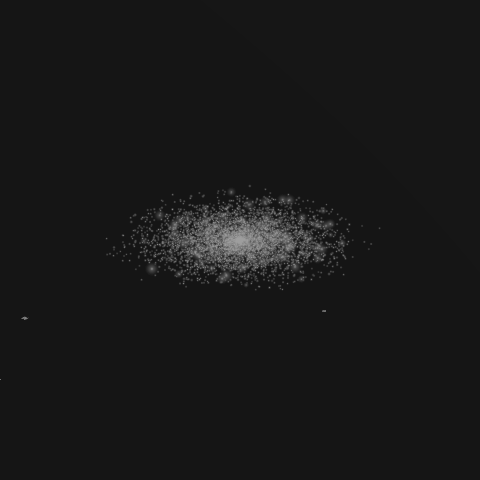
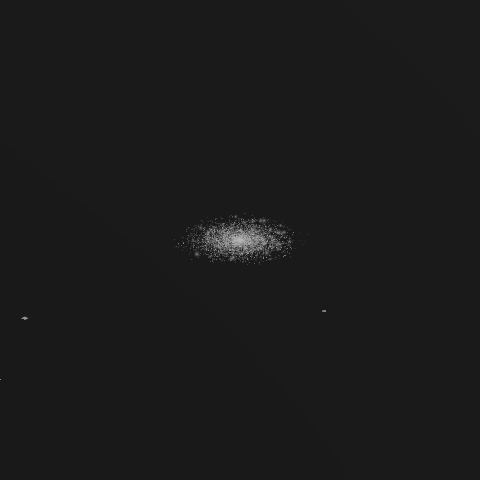
Textures publiées : échelle de la Voie lactée corrigée entre familles de sprites
Occupation du cadre désormais monotone : E 2 %, D 5 %, C 13 %, B 17 %, A 42 %.
Galaxies : G 99, F 53, E 24, D 9, C/B/A 4.

Changed region(s): [[0.2812, 0.4062, 0.7188, 0.5938]]

diff --git a/scripts/dev/sprites_layer.py b/scripts/dev/sprites_layer.py
@@ -61,7 +61,7 @@ N_FRAMES = _SP.get("n_frames", 14)
 
 # Rayons physiques, en Mpc. Valeurs ABSOLUES (INV-B1) : aucune ne depend du
 # catalogue ni de l'image courante.
-MW_RADIUS_MPC = _SP.get("mw_radius_mpc", 0.016)
+MW_RADIUS_MPC = _SP.get("mw_radius_mpc", 0.01594329)
 
 # Etendue effective des vignettes, mesuree le 02/08 sur les frames f00 : rayon
 # contenant 90 % du flux, en fraction du demi-cote.
@@ -74,6 +74,12 @@ MW_RADIUS_MPC = _SP.get("mw_radius_mpc", 0.016)
 # Le facteur est fige sur f00 et NE VARIE PAS avec la frame : c'est ainsi que
 # l'etalement du sprite pendant la dissolution reste visible (C1).
 SPRITE_EXTENT = _SP.get("extent_r90", {"normal": 0.094, "hires": 0.344})
+# SPRITE_MARGIN historique : la vignette couvre 2,8 rayons galactiques. Valeur
+# reprise de RealGalaxiesLayer.tsx et de generate_simulated_textures.mjs, ou elle
+# est marquee « GARDER SYNCHRONISE ». Ma reconstruction par le rayon a 90 % du
+# flux donnait 1,37, soit des sprites 1,4 fois trop grands et plus mous.
+SPRITE_MARGIN = _SP.get("sprite_margin", 2.8)
+HIRES_REACH = _SP.get("hires_reach", 1.37)
 PARTICLE_REACH = _SP.get("particle_reach", 1.37)  # etendue des particules, en unites de rayon galactique
                           # (mesure : max|x| = 71 235 ly pour mwRadius = 52 000)
 
@@ -82,8 +88,15 @@ PARTICLE_REACH = _SP.get("particle_reach", 1.37)  # etendue des particules, en u
 # pas a distinguer les galaxies du Groupe Local ». En descendant vers A, la toile
 # cosmique n'a plus de sens physique -- a 0,035 Mpc on est DANS une galaxie. Le
 # fond s'efface donc au profit des objets, ce qui sert aussi A8.
-AMBIENT_STRENGTH = _SP.get("ambient_strength", {"G": 1.0, "F": 1.0, "E": 0.75,
-                                                "D": 0.45, "C": 0.25, "B": 0.12,
+# Cible de ton propre aux lignes a sprites. Arbitrage de Marc du 03/08 : des que
+# les galaxies du catalogue sont visibles, le fond doit s'effacer -- moyenne plus
+# basse, filaments legers convergeant vers les galaxies. Les critères de fond
+# (A7 a 68/255) ne s'appliquent plus tels quels sous G.
+TARGET_MEAN_ROW = _SP.get("target_mean_row", {"G": 60.0, "F": 52.0, "E": 44.0,
+                                              "D": 36.0, "C": 30.0, "B": 28.0,
+                                              "A": 28.0})
+AMBIENT_STRENGTH = _SP.get("ambient_strength", {"G": 0.55, "F": 0.42, "E": 0.32,
+                                                "D": 0.22, "C": 0.14, "B": 0.09,
                                                 "A": 0.06})
 SPRITE_GAIN = _SP.get("gain", 30.0)
 HIRES_BELOW = _SP.get("hires_below_half_mpc", 0.15)
@@ -122,7 +135,10 @@ def _paste(img, sp, cx, cy, diam_px, gain):
     d = max(int(round(diam_px)), 2)
     if d > 4 * n:
         return 0
-    z = ndimage.zoom(sp, d / sp.shape[0], order=1)
+    # Spline cubique, et non bilineaire : c'est ce qui rend le PIQUE des sprites
+    # historiques, rendus par drawImage. Le bilineaire les rendait mous.
+    z = ndimage.zoom(sp, d / sp.shape[0], order=3)
+    np.clip(z, 0.0, None, out=z)
     h = z.shape[0]
     x0, y0 = int(round(cx - h / 2)), int(round(cy - h / 2))
     sx0, sy0 = max(0, -x0), max(0, -y0)
@@ -179,7 +195,22 @@ def build(code, half, seed, base_img, fine, amp=1.0, ambient_half=None):
                 # Diametre de la vignette tel que le rayon a 90 % du flux tombe
                 # sur PARTICLE_REACH rayons galactiques -- independant de la
                 # famille de sprite, donc taille coherente d'une ligne a l'autre.
-                d_px = 2.0 * (PARTICLE_REACH * g["radiusMpc"] / px) / frac
+                # SPRITE_MARGIN vaut pour les vignettes 512. La Voie lactee en
+                # 2048 n'a PAS la meme echelle interne : son rayon a 90 % du flux
+                # occupe 0,344 du demi-cote contre 0,094. Sans ce rapport, elle
+                # apparait 3,7 fois trop grande des qu'on bascule sur le hires --
+                # la rupture de taille entre C et B signalee par Marc le 03/08.
+                # Chaque famille est calee sur SON etendue reelle :
+                #  - vignettes 512 : SPRITE_MARGIN = 2,8 rayons, valeur
+                #    historique de generate_simulated_textures.mjs ;
+                #  - Voie lactee 2048 : 1,37 rayon, etendue MESUREE des
+                #    particules (max|x| = 71 235 ly pour mwRadius = 52 000).
+                # Appliquer 2,8 aux deux rendait la galaxie 3,7 fois trop grande
+                # des le basculement sur le hires (rupture C -> B, 03/08) ;
+                # appliquer le rapport des r90 la rendait au contraire trop
+                # petite pour remplir le cadre de A.
+                reach = HIRES_REACH if hires else SPRITE_MARGIN
+                d_px = 2.0 * reach * g["radiusMpc"] / px
                 if _paste(img, sp, cx, cy, d_px, mean0 * SPRITE_GAIN * g["brightness"]):
                     n_real += 1
                     continue
@@ -199,5 +230,9 @@ def build(code, half, seed, base_img, fine, amp=1.0, ambient_half=None):
         img[y0:y1, x0:x1] += (np.exp(-rr ** 1.4) * mean0 * 3.5 * amp_g).astype(np.float32)
         n_proc += 1
 
-    a = M.solve_alpha(img, G.TARGET_MEAN, gamma=gm)
+    # Ton cale sur la fenetre visible (cf. gen_chain.render_full).
+    v = int(round(n / 1.5))
+    c0 = (n - v) // 2
+    a = M.solve_alpha(img[c0:c0 + v, c0:c0 + v] if c0 > 0 else img,
+                      TARGET_MEAN_ROW.get(code, G.TARGET_MEAN), gamma=gm)
     return M.tone(img, a, gamma=gm), n_real, n_proc
